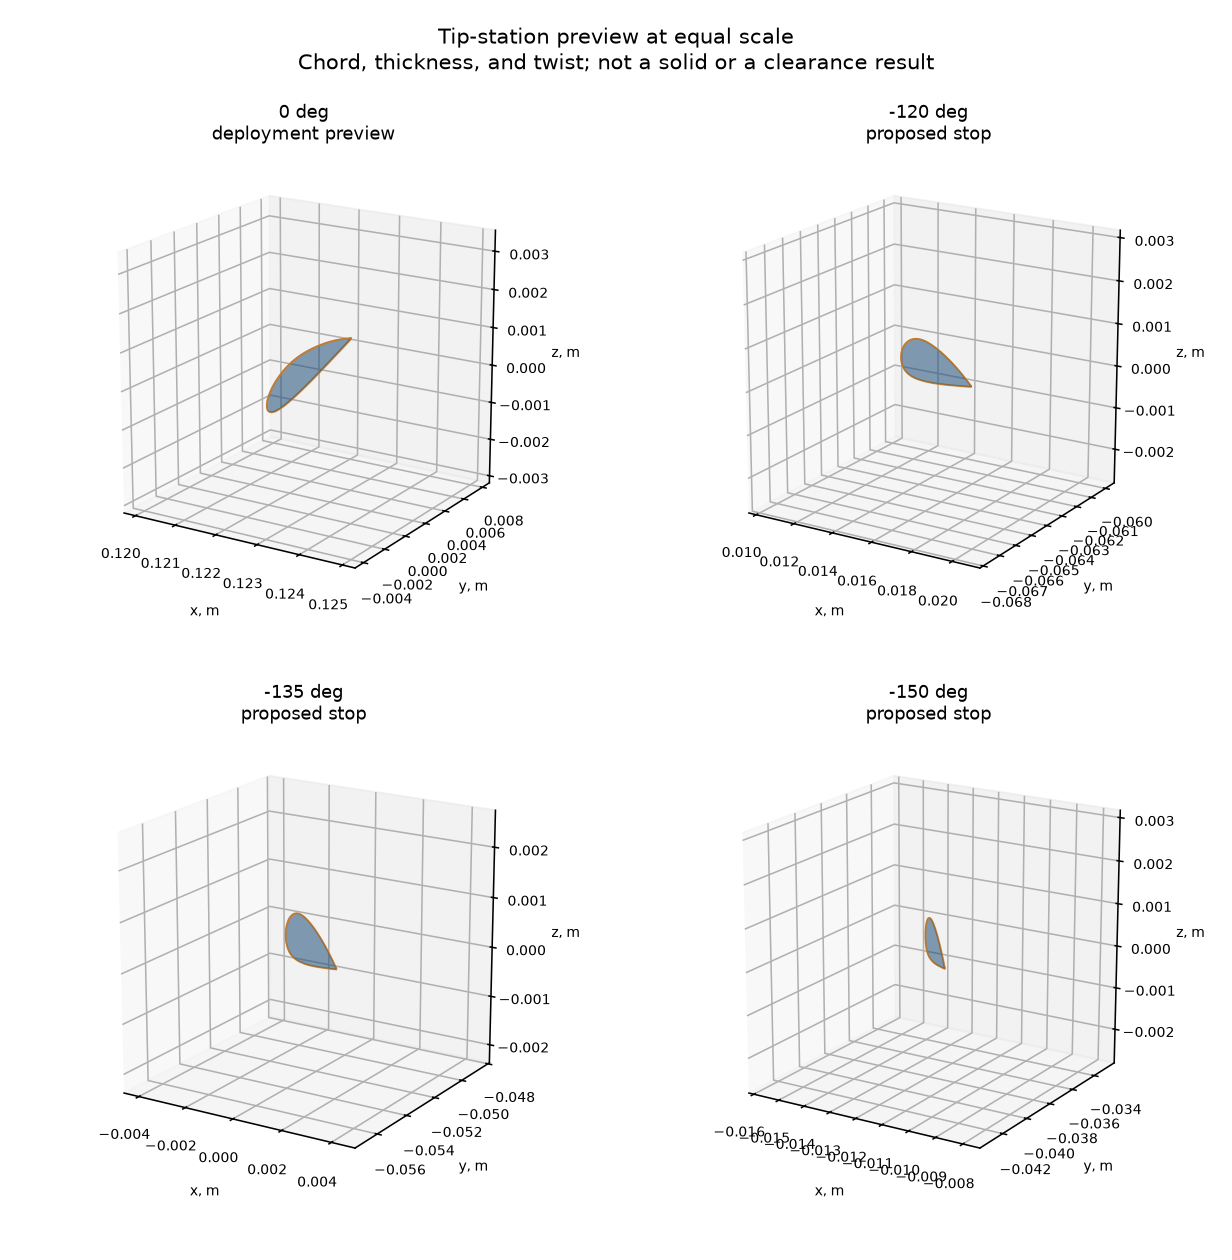
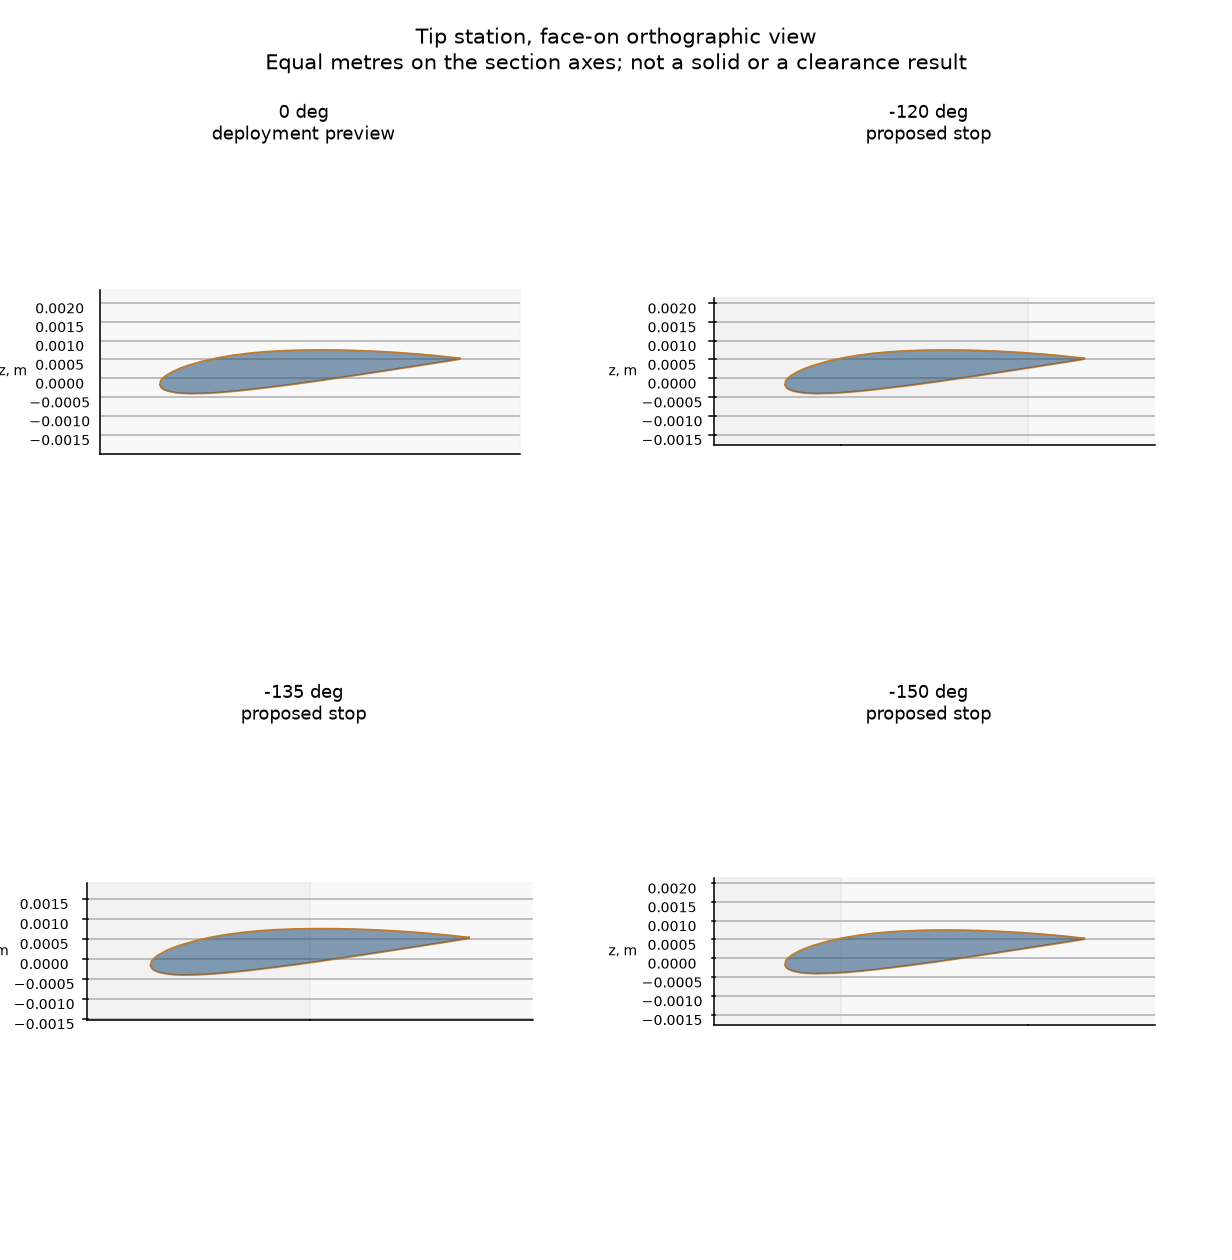
Correct the centerline radius wording and tip-section scale.
The pinned centerline comparison is a radius against half the recorded diameter. The tip view is face-on and orthographic, with one metre having the same screen length on each section axis.

diff --git a/examples/prepare_chord_surface_50mm_screening.py b/examples/prepare_chord_surface_50mm_screening.py
@@ -350,9 +350,9 @@ def build_chord_surface_study(repository_root: Path) -> dict[str, object]:
         "distinctions": {
             "mesh_versus_centerline": (
                 "mesh_envelope_radius_m is the largest radial distance of a preview-mesh "
-                "vertex. centerline_envelope_radius_m is the preview centerline quantity "
-                "and, at the three stops, matches the pinned PR #101 centerline diameter. "
-                "axial_min_m and axial_max_m are the mesh vertex z extent."
+                "vertex. centerline_envelope_radius_m is the preview centerline radius. "
+                "At the three stops that radius equals half the pinned PR #101 centerline "
+                "diameter. axial_min_m and axial_max_m are the mesh vertex z extent."
             ),
             "shared_hinge": (
                 "Attachment exclusions stay zero, so the shared hinge boundary remains "
@@ -539,7 +539,8 @@ def _draw_plan(axis, mesh, bundle, hinge_radius_m: float, angle_deg: float) -> N
     axis.set_ylabel("y, m", fontsize=8)
 
 
-def _draw_section(axis, mesh) -> None:
+def _draw_section(axis, mesh, angle_deg: float) -> None:
+    """Draw one tip section face-on, with one metre having the same screen length on each axis."""
     station = mesh.station_count - 1
     per_section = mesh.section_vertex_count
     start = station * per_section
@@ -558,20 +559,46 @@ def _draw_section(axis, mesh) -> None:
     ys = [point[1] for point in loop]
     zs = [point[2] for point in loop]
     span = max(max(xs) - min(xs), max(ys) - min(ys), max(zs) - min(zs), 1.0e-6)
-    pad = 0.35 * span
-    axis.set_xlim(min(xs) - pad, max(xs) + pad)
-    axis.set_ylim(min(ys) - pad, max(ys) + pad)
-    axis.set_zlim(min(zs) - pad, max(zs) + pad)
-    axis.set_box_aspect((1.0, 1.0, 1.0))
-    axis.view_init(elev=18, azim=-58)
-    axis.set_xlabel("x, m", fontsize=7)
-    axis.set_ylabel("y, m", fontsize=7)
+    pad = 0.2 * span
+    limits = (
+        (min(xs) - pad, max(xs) + pad),
+        (min(ys) - pad, max(ys) + pad),
+        (min(zs) - pad, max(zs) + pad),
+    )
+    axis.set_xlim(*limits[0])
+    axis.set_ylim(*limits[1])
+    axis.set_zlim(*limits[2])
+    axis.set_box_aspect(tuple(high - low for low, high in limits))
+    axis.set_proj_type("ortho")
+    axis.view_init(elev=0, azim=angle_deg)
     axis.set_zlabel("z, m", fontsize=7)
     axis.tick_params(labelsize=7)
+    theta = math.radians(angle_deg)
+    # x and y tick labels share the section plane and overlap. The z ticks keep the metre scale.
+    axis.set_xticks([])
+    axis.set_yticks([])
+    axis.set_xlabel("")
+    axis.set_ylabel("")
+    axis.figure.canvas.draw()
+    matrix = axis.get_proj()
+
+    def screen_length(vector: tuple[float, float, float]) -> float:
+        start_point = matrix @ (0.0, 0.0, 0.0, 1.0)
+        end_point = matrix @ (*vector, 1.0)
+        start_xy = start_point[:2] / start_point[3]
+        end_xy = end_point[:2] / end_point[3]
+        return math.hypot(float(end_xy[0] - start_xy[0]), float(end_xy[1] - start_xy[1]))
+
+    chord_direction = (-math.sin(theta), math.cos(theta), 0.0)
+    thickness_direction = (0.0, 0.0, 1.0)
+    chord_pixels = screen_length(chord_direction)
+    thickness_pixels = screen_length(thickness_direction)
+    if chord_pixels <= 0.0 or abs(thickness_pixels - chord_pixels) / chord_pixels > 0.02:
+        raise ValueError("Tip-station view does not use equal metre scale.")
 
 
 def write_views(repository_root: Path, output_dir: Path) -> None:
-    """Draw the full-rotor plan and equal-scale tip sections at four poses."""
+    """Draw the full-rotor plan and face-on tip sections at four poses."""
     root = repository_root.resolve()
     packet = json.loads((root / PARENT_PACKET).read_text(encoding="utf-8"))
     hinge_study = json.loads((root / HINGE_STUDY).read_text(encoding="utf-8"))
@@ -606,11 +633,11 @@ def write_views(repository_root: Path, output_dir: Path) -> None:
     )
     plan.subplots_adjust(left=0.08, right=0.98, top=0.88, bottom=0.16, hspace=0.46, wspace=0.28)
     surface, surface_axes = plt.subplots(2, 2, figsize=(8.8, 9.0), subplot_kw={"projection": "3d"})
-    for axis, mesh, title in zip(surface_axes.ravel(), meshes, titles):
-        _draw_section(axis, mesh)
+    for axis, mesh, title, angle in zip(surface_axes.ravel(), meshes, titles, angles):
+        _draw_section(axis, mesh, angle)
         axis.set_title(title, fontsize=9)
     surface.suptitle(
-        "Tip-station preview at equal scale\nChord, thickness, and twist; not a solid or a clearance result",
+        "Tip station, face-on orthographic view\nEqual metres on the section axes; not a solid or a clearance result",
         fontsize=11,
     )
     surface.subplots_adjust(left=0.02, right=0.98, top=0.88, bottom=0.06, hspace=0.28, wspace=0.12)
